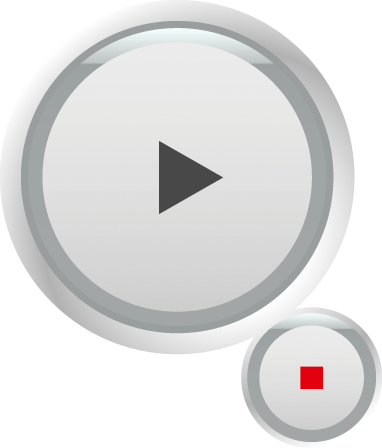
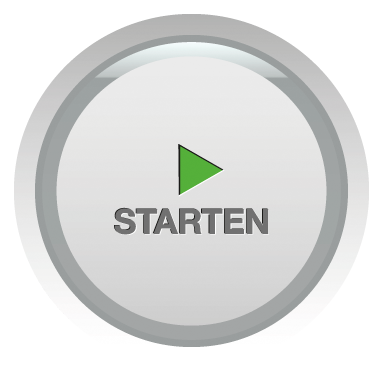
Rundgang v1.5.2 - neue Buttons

diff --git a/www/js/rundgang.js b/www/js/rundgang.js
@@ -91,10 +91,6 @@ jQuery(document).ready(function () {
 				jQuery(".expand").removeAttr('style');
 		});
 
-		jQuery('#rundgangButtons').attr('src', 'img/buttonsAct.png').delay(1500).queue(function (next) {
-				jQuery(this).attr('src', 'img/buttonsRun.png');
-				next();
-		});
 		d = new Date();
 		m = d.getMonth() + 1;
 		span_date = '<span>Zeit: ' + d.getHours() + ':' + d.getMinutes() + ' Datum: ' + d.getDate() + '.' + m + '.' + d.getFullYear() + '</span>';
@@ -111,6 +107,11 @@ jQuery(document).ready(function () {
 						getCurGeoData()
 				}, 5000);
 			
+			jQuery('#rundgangButtons').attr('src', 'img/buttonsAct.png').delay(1500).queue(function (next) {
+				jQuery(this).attr('src', 'img/buttonsRun.png');
+				next();
+			});
+			
 			span_text = '<span><b>Rundgang wurde gestartet</b></span>';        
 			jQuery('.statusBox p:gt(0)').fadeOut(500, function () {
 				jQuery('<p class="control">' + span_text + '<br />' + span_date + '<img src="img/mBoxEye.png" /></p>').hide().prependTo(".statusBox").delay(350).slideToggle("slow");
@@ -122,6 +123,11 @@ jQuery(document).ready(function () {
 		} else {
 			// Deaktiviere die permanente Geo-Datenerfassung
 			clearInterval(rInterval);
+			
+			jQuery('#rundgangButtons').attr('src', 'img/buttonsRunAct.png').delay(1500).queue(function (next) {
+				jQuery(this).attr('src', 'img/buttons.png');
+				next();
+			});
 			
 			stopGeoData();
 			

diff --git a/www/css/styles.css b/www/css/styles.css
@@ -396,7 +396,7 @@ div#login {
 }
 
 .rundgangBox img#rundgangButtons {
-    height: 275px;
+    height: 233px;
     width: 233px;
 }
 
